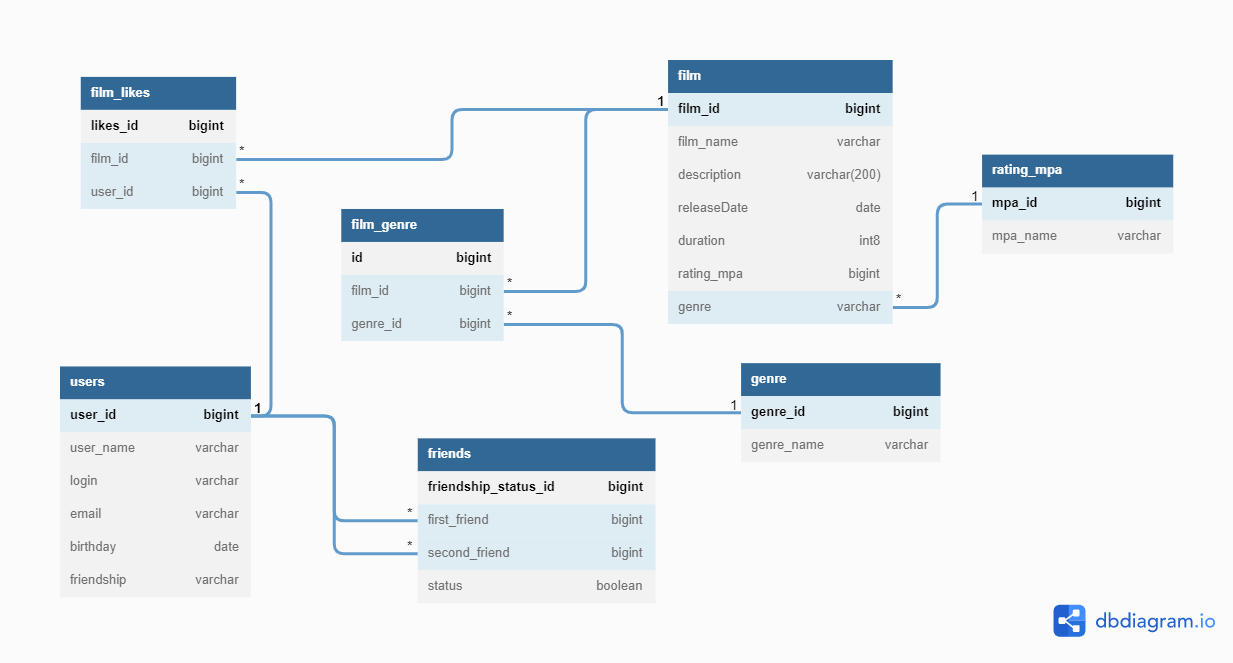
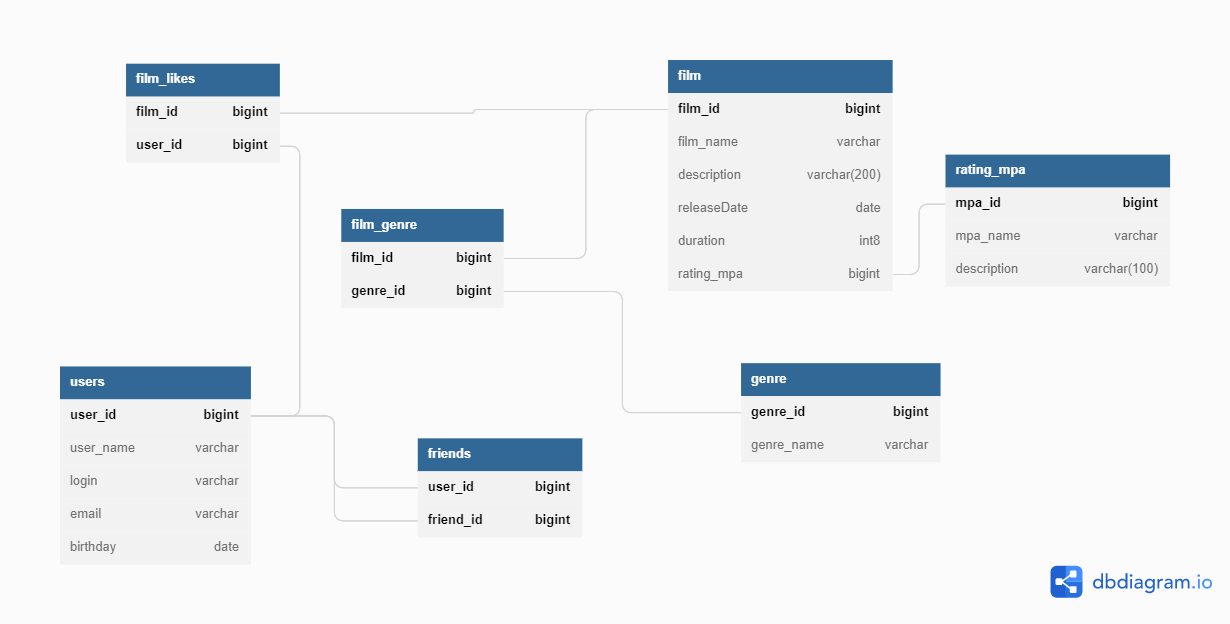
fix diagram and added schema.sql

diff --git a/src/main/java/ru/yandex/practicum/filmorate/storage/dao/FilmDbStorage.java b/src/main/java/ru/yandex/practicum/filmorate/storage/dao/FilmDbStorage.java
@@ -1,0 +1,33 @@
+package ru.yandex.practicum.filmorate.storage.dao;
+
+import ru.yandex.practicum.filmorate.model.Film;
+import ru.yandex.practicum.filmorate.storage.FilmStorage;
+
+import java.util.List;
+
+public class FilmDbStorage implements FilmStorage {
+    @Override
+    public List<Film> findAll() {
+        return null;
+    }
+
+    @Override
+    public Film create(Film film) {
+        return null;
+    }
+
+    @Override
+    public Film update(Film film) {
+        return null;
+    }
+
+    @Override
+    public Film findFilmById(Long filmId) {
+        return null;
+    }
+
+    @Override
+    public Film delete(Long filmId) {
+        return null;
+    }
+}

diff --git a/src/main/java/ru/yandex/practicum/filmorate/storage/dao/UserDbStorage.java b/src/main/java/ru/yandex/practicum/filmorate/storage/dao/UserDbStorage.java
@@ -1,0 +1,33 @@
+package ru.yandex.practicum.filmorate.storage.dao;
+
+import ru.yandex.practicum.filmorate.model.User;
+import ru.yandex.practicum.filmorate.storage.UserStorage;
+
+import java.util.List;
+
+public class UserDbStorage implements UserStorage {
+    @Override
+    public List<User> findAll() {
+        return null;
+    }
+
+    @Override
+    public User create(User user) {
+        return null;
+    }
+
+    @Override
+    public User update(User user) {
+        return null;
+    }
+
+    @Override
+    public User findUserById(Long userId) {
+        return null;
+    }
+
+    @Override
+    public User delete(Long userId) {
+        return null;
+    }
+}

diff --git a/src/main/java/ru/yandex/practicum/filmorate/storage/memory/InMemoryFilmStorage.java b/src/main/java/ru/yandex/practicum/filmorate/storage/memory/InMemoryFilmStorage.java
@@ -1,8 +1,9 @@
-package ru.yandex.practicum.filmorate.storage;
+package ru.yandex.practicum.filmorate.storage.memory;
 
 import org.springframework.stereotype.Component;
 import ru.yandex.practicum.filmorate.exception.FilmNotFoundException;
 import ru.yandex.practicum.filmorate.model.Film;
+import ru.yandex.practicum.filmorate.storage.FilmStorage;
 
 import java.util.*;
 

diff --git a/src/main/java/ru/yandex/practicum/filmorate/storage/memory/InMemoryUserStorage.java b/src/main/java/ru/yandex/practicum/filmorate/storage/memory/InMemoryUserStorage.java
@@ -1,8 +1,9 @@
-package ru.yandex.practicum.filmorate.storage;
+package ru.yandex.practicum.filmorate.storage.memory;
 
 import org.springframework.stereotype.Component;
 import ru.yandex.practicum.filmorate.exception.UserNotFoundException;
 import ru.yandex.practicum.filmorate.model.User;
+import ru.yandex.practicum.filmorate.storage.UserStorage;
 
 import java.util.*;
 

diff --git a/src/main/java/ru/yandex/practicum/filmorate/model/RatingMPA.java b/src/main/java/ru/yandex/practicum/filmorate/model/RatingMPA.java
@@ -1,0 +1,12 @@
+package ru.yandex.practicum.filmorate.model;
+
+import lombok.Builder;
+import lombok.Data;
+
+@Data
+@Builder
+public class RatingMPA {
+    private int ratingId;
+    private String ratingName;
+    private String ratingDescription;
+}

diff --git a/src/main/java/ru/yandex/practicum/filmorate/model/Film.java b/src/main/java/ru/yandex/practicum/filmorate/model/Film.java
@@ -7,7 +7,6 @@ import javax.validation.constraints.NotBlank;
 import javax.validation.constraints.Positive;
 import javax.validation.constraints.Size;
 import java.time.LocalDate;
-import java.util.HashSet;
 import java.util.Set;
 
 @Data

diff --git a/src/main/java/ru/yandex/practicum/filmorate/model/User.java b/src/main/java/ru/yandex/practicum/filmorate/model/User.java
@@ -8,7 +8,6 @@ import javax.validation.constraints.NotBlank;
 import javax.validation.constraints.Past;
 import javax.validation.constraints.Pattern;
 import java.time.LocalDate;
-import java.util.HashSet;
 import java.util.Set;
 
 @Data

diff --git a/src/main/java/ru/yandex/practicum/filmorate/model/Genre.java b/src/main/java/ru/yandex/practicum/filmorate/model/Genre.java
@@ -1,0 +1,11 @@
+package ru.yandex.practicum.filmorate.model;
+
+import lombok.Builder;
+import lombok.Data;
+
+@Data
+@Builder
+public class Genre {
+    private int genreId;
+    private String genreName;
+}
